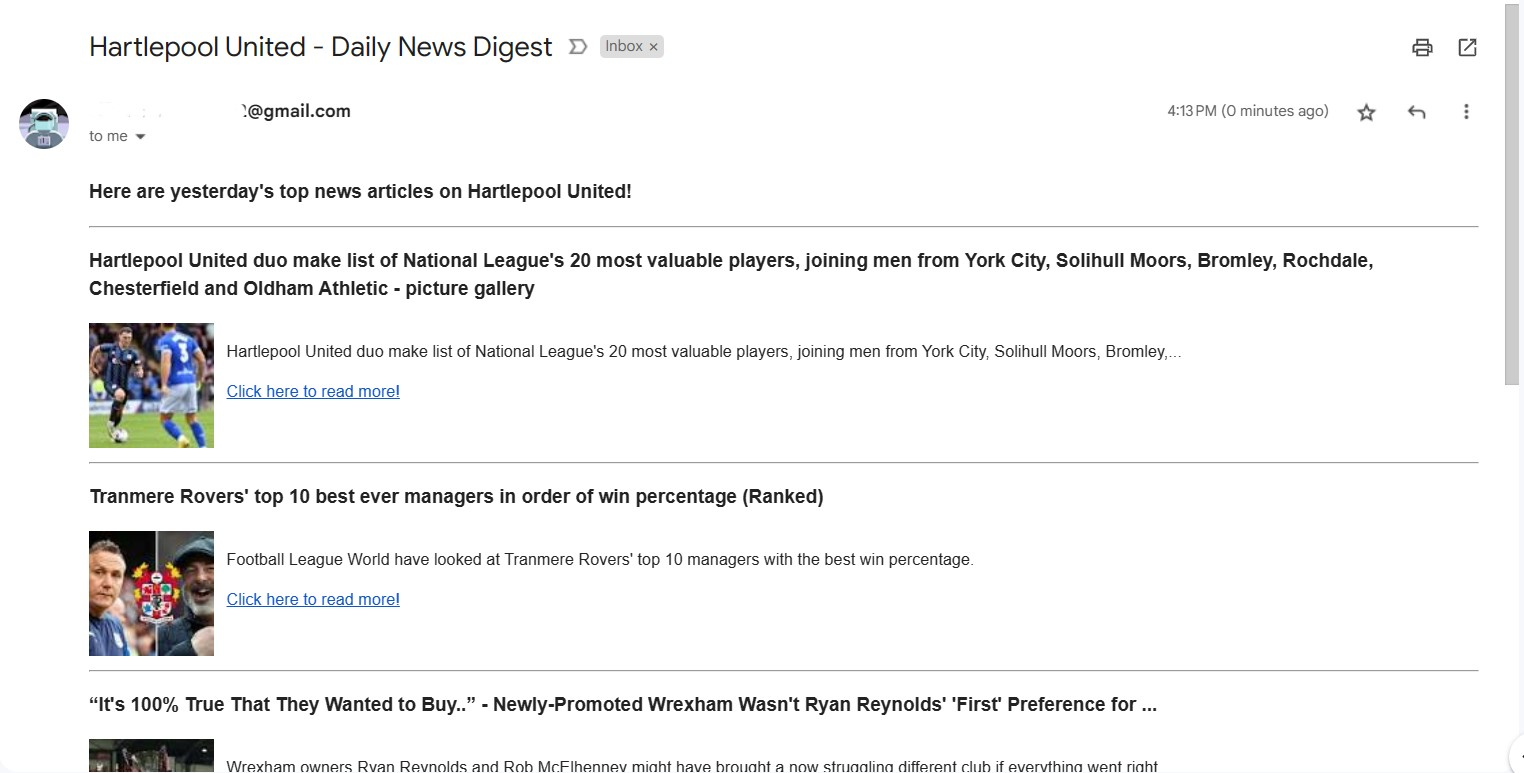
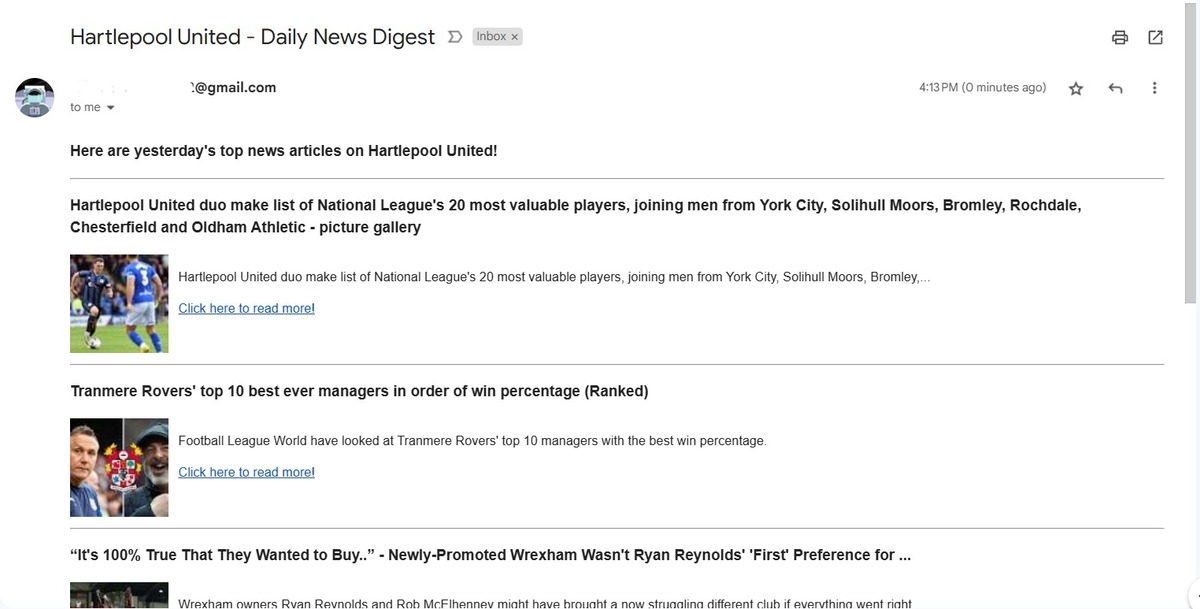
updates

diff --git a/_portfolio/project1.md b/_portfolio/project1.md
@@ -1,7 +1,7 @@
 ---
 title: Web Scraping Project
 subtitle: Daily news digest emailer
-image: assets/img/portfolio/01-full.png
+image: assets/img/portfolio/01-full.jpg
 alt: Hartlepool United
 
 caption:
